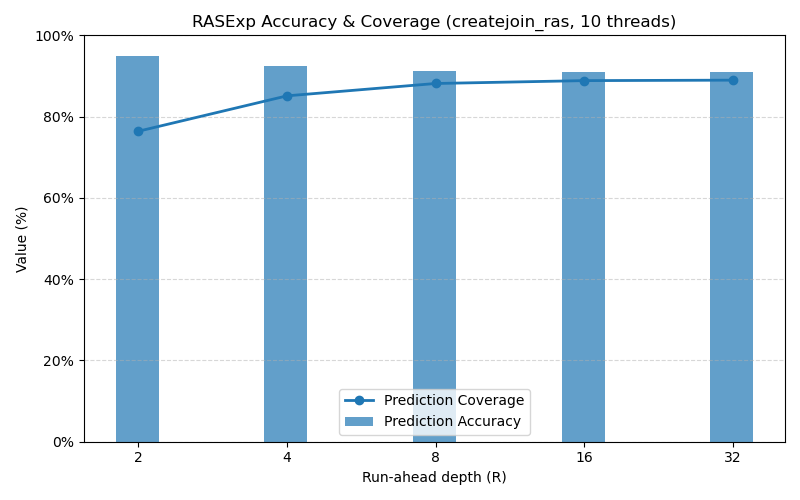
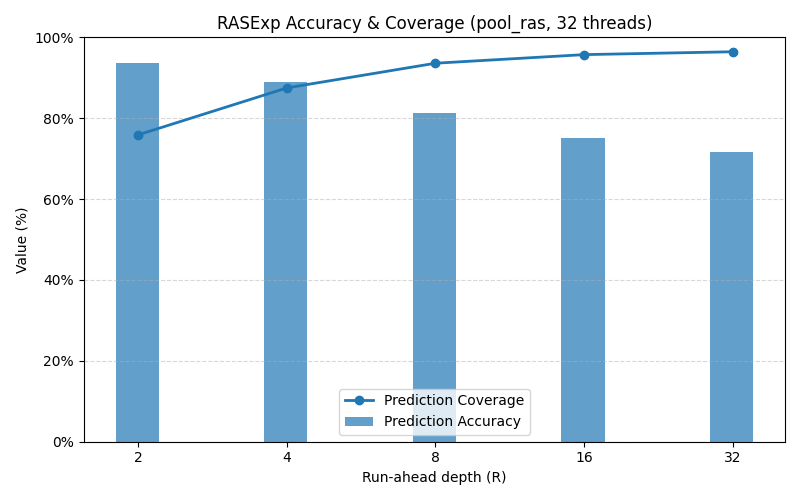
data on r=10

diff --git a/tony/astar_bind.py b/tony/astar_bind.py
@@ -64,12 +64,12 @@ if __name__ == "__main__":
     print("A* extension initialized.")
     # Configuration parameters
     threads = [1, 2, 4, 8, 16, 32]
-    algorithms = [ "createjoin", "createjoin_ras"]
+    algorithms =["serial", "pool","pool_ras","createjoin_ras", "createjoin"]
     #algorithms = ["createjoin", "createjoin_ras"]
     max_depth = 8
     algo = "pool"
     output_dir = "./results/speedup"
-    samples_csv = "./dataset/boston/Boston_0_1024_samples.csv"
+    samples_csv = "./dataset/boston/Boston_0_1024_samples_radius10.csv"
     map_file = "./dataset/boston/Boston_0_1024.map"
     
     for algo in algorithms:

diff --git a/tony/analyze/runahead.py b/tony/analyze/runahead.py
@@ -86,10 +86,10 @@ def plot_accuracy_and_coverage( acc_by_R: dict[int, float], cov_by_R: dict[int, 
 
 
 if __name__ == "__main__":
-    results_dir = "/Users/tonyalarcon/repos/research/racod/tony/results/spec_depth"
+    results_dir = "/home/droneresponse/tony/repos/racod/tony/results/spec_depth"
     basename    = "Boston_0_1024"
-    algo        = "createjoin_ras"
-    threads     = 10
+    algo        = "pool_ras"
+    threads     = 32
     depth_list  = [2,4,8,16,32]
 
     acc_by_R = compute_per_depth_accuracy(

diff --git a/tony/astar_metrics.py b/tony/astar_metrics.py
@@ -59,7 +59,7 @@ def run_tests_from_csv(samples_csv_path: str,
 
 
 if __name__ == "__main__":
-    samples_csv = "./dataset/boston/Boston_0_1024_samples.csv"
+    samples_csv =  "./dataset/boston/Boston_0_1024_samples_radius10.csv"
     map_file     = "./dataset/boston/Boston_0_1024.map"
     output_dir   = "./results/spec_depth"
 
